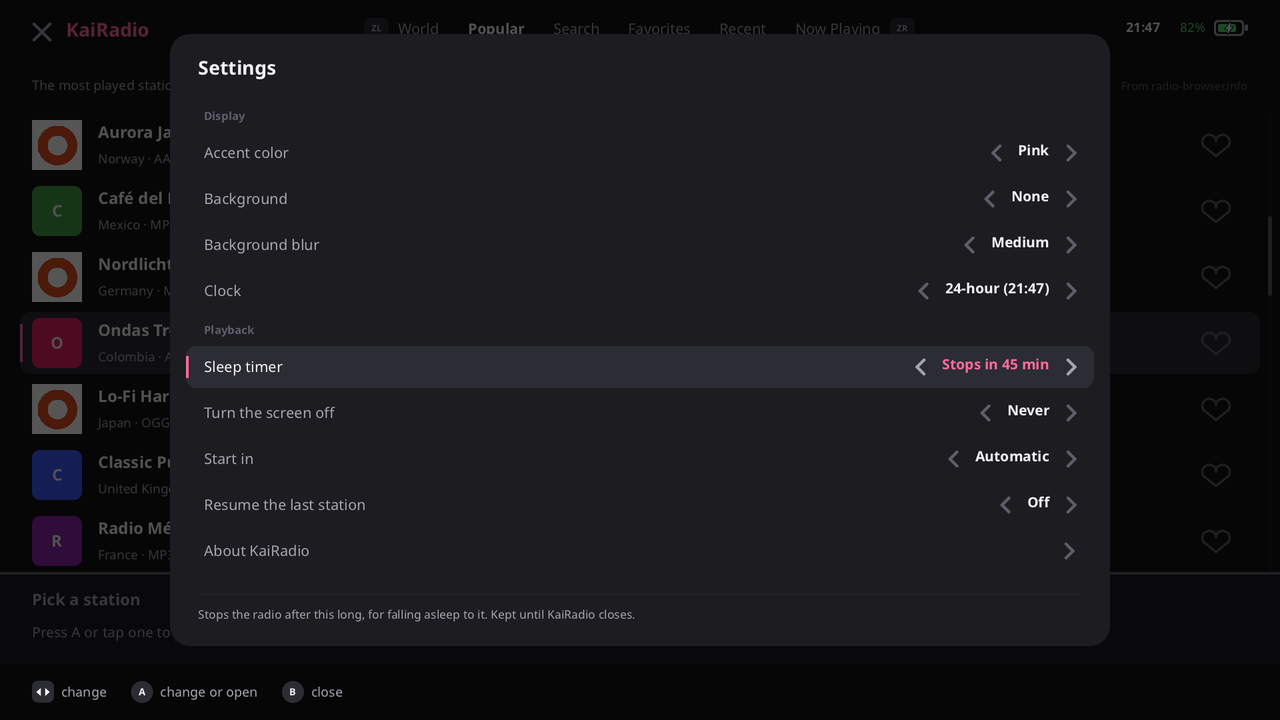
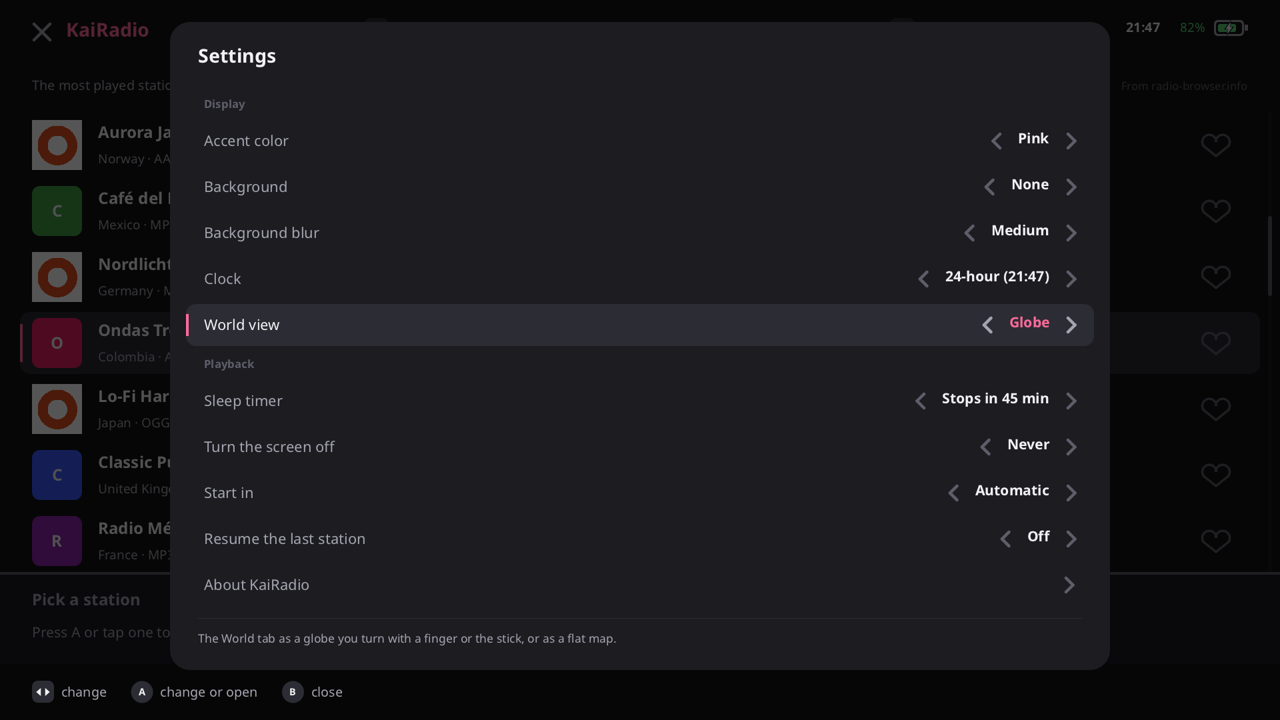
chore: KaiRadio 1.1.0
The README and About say what's new (the globe, the random station, the
time and weather) and credit Open-Meteo, as its terms ask; World credits
it too. New World and Settings screenshots.

diff --git a/source/ui.c b/source/ui.c
@@ -477,8 +477,10 @@ static void drawList(const App *app, const RadioStatus *radio, uint64_t now_ns)
 static void drawWorld(const App *app, uint64_t now_ns)
 {
     fontDraw(FONT_REGULAR, 18, MARGIN, SUBTITLE_Y, "Stations around the world", COLOR_DIM);
-    fontDraw(FONT_REGULAR, 15, GFX_WIDTH - MARGIN - fontTextWidth(FONT_REGULAR, 15, "From radio-browser.info"),
-             SUBTITLE_Y + 2, "From radio-browser.info", COLOR_FAINT);
+    const char *credit = app->config.world_globe ? "From radio-browser.info  \xC2\xB7  Weather by open-meteo.com"
+                                                 : "From radio-browser.info";
+    fontDraw(FONT_REGULAR, 15, GFX_WIDTH - MARGIN - fontTextWidth(FONT_REGULAR, 15, credit), SUBTITLE_Y + 2, credit,
+             COLOR_FAINT);
     uiDrawMap(app, now_ns);
     if (app->categories[SEARCH_COUNTRY].count > 0)
         return;

diff --git a/source/ui_settings.c b/source/ui_settings.c
@@ -14,7 +14,7 @@
 #define PANEL_Y 22
 #define PANEL_H 648  // The rows, two sections and the line about the row picked.
 #define ROW_H 46
-#define ABOUT_H 470
+#define ABOUT_H 504
 #define SECTION_H 30
 #define PAD 28
 
@@ -115,6 +115,7 @@ static void drawAbout(void)
         "",
         "Stations: Radio Browser (radio-browser.info), a community directory.",
         "World map: Natural Earth (public domain). Flags: flag-icons (MIT).",
+        "Time zones and weather: Open-Meteo (open-meteo.com, CC BY 4.0).",
         "Genre icons: Lucide (ISC). Fonts: Noto Sans (SIL OFL 1.1).",
         "Audio: FFmpeg (LGPL 2.1). Also cJSON, stb and libcurl.",
         "",

diff --git a/README.md b/README.md
@@ -5,8 +5,8 @@ An **open-source internet radio player** for **Switch 2** running
 [KaiPlayer](https://github.com/mizuiroame/kaiplayer). Browse tens of
 thousands of public stations from the community
 [Radio Browser](https://www.radio-browser.info/) directory: the most played
-ones, by country on a map of the world, or by name, genre, country or
-language.
+ones, by country on a globe you turn with a finger, at random, or by name,
+genre, country or language.
 
 ![World](docs/screenshots/world.png)
 
@@ -26,8 +26,13 @@ The screenshots show made-up stations.
 
 ## What it does
 
-- **World**: a night map of the world, each country lit up by how many
-  stations it has. Move between countries and open one to see its stations.
+- **World**: a night globe, each country lit up by how many stations it has.
+  Turn it with a finger, or go from country to country with the stick. Beside
+  it, the country picked: its flag, how many stations it has, and its **time
+  and weather** right now. Open it to see its stations.
+- **Random station** (**Y** in World): a country at random, the globe turned
+  to it, and one of its stations playing; **L** and **R** go through the rest.
+- The globe can be a flat night map instead (Settings > World view).
 - **Popular**: the stations played most, worldwide.
 - **Search** by **name** (with the console's keyboard), or browse **genres**
   (each with an icon), **countries** (with their flags) and **languages**
@@ -43,7 +48,7 @@ The screenshots show made-up stations.
 - Reconnects on its own when the connection drops.
 - **Settings** (**+** > Settings): the accent color (or one taken from the
   station's logo), a background image of your own with as much blur as you
-  like, a 12- or 24-hour clock, a sleep timer, turning the screen off while
+  like, a 12- or 24-hour clock, the globe or a flat map, a sleep timer, turning the screen off while
   a station plays, the tab to start in, and playing the last station again
   when KaiRadio opens. Backgrounds are the JPEG or PNG images you put in the
   `Backgrounds` folder of KaiRadio's folder.
@@ -91,7 +96,7 @@ can delete it once everything is there).
 | Button | What it does |
 |--------|--------------|
 | **A** | Play the selected station (in World: open the country; in Now Playing: play or stop) |
-| **Y** | Add to favorites, or remove; on a list of genres, countries or languages, sort it (most or fewest stations, A to Z, Z to A) |
+| **Y** | In World: a random station. Elsewhere: add to favorites, or remove; on a list of genres, countries or languages, sort it (most or fewest stations, A to Z, Z to A) |
 | **X** | Now Playing; in Search by name, type a name |
 | **ZL** / **ZR** | Previous / next tab |
 | **L** / **R** | Previous / next station, in the list you played from |
@@ -102,10 +107,11 @@ can delete it once everything is there).
 | **+** | Menu: Settings, or exit (press **+** again to exit) |
 
 On the touch screen, tap a station to play it, its heart to keep it, a tab,
-genre or country to open it, a country on the map to pick it (tap it again,
-or its card, to open it), the sort at the top right of a list of genres,
+genre or country to open it, a country on the globe to pick it (tap it again,
+or Open its stations, to open it), Random station beside the globe, the sort at the top right of a list of genres,
 countries or languages to change it, and the bar at the bottom for Now Playing. Drag
-a list to scroll it. The title at the top left opens the menu, and the **×**
+the globe to turn it, and a list to scroll it: a quick flick keeps it gliding, and a
+touch stops it. The title at the top left opens the menu, and the **×**
 before it exits.
 
 ## Building
@@ -143,6 +149,9 @@ While a station plays, KaiRadio writes how the audio output keeps up to
   does, and it doesn't record them. Each station's content belongs to its
   owners. The station list comes from Radio Browser's public API, and KaiRadio
   reports plays to it, as the API asks clients to.
+- **Weather.** The time and weather beside the globe come from
+  [Open-Meteo](https://open-meteo.com/) (CC BY 4.0). KaiRadio sends it only
+  the middle of the country picked on the map, nothing about you.
 - **FFmpeg.** KaiRadio uses FFmpeg, built under the LGPL 2.1 (no GPL or
   non-free parts). The script that builds it is in this repository, so it can
   be rebuilt, changed and relinked.
@@ -162,4 +171,5 @@ under the LGPL 2.1; the other bundled libraries are listed in
 from [Natural Earth](https://www.naturalearthdata.com/) (public domain) by
 `tools/make_map.py`; the flags come from
 [flag-icons](https://github.com/lipis/flag-icons) (MIT) and the genre icons
-from [Lucide](https://lucide.dev/) (ISC).
+from [Lucide](https://lucide.dev/) (ISC). Weather data by
+[Open-Meteo.com](https://open-meteo.com/) (CC BY 4.0).
